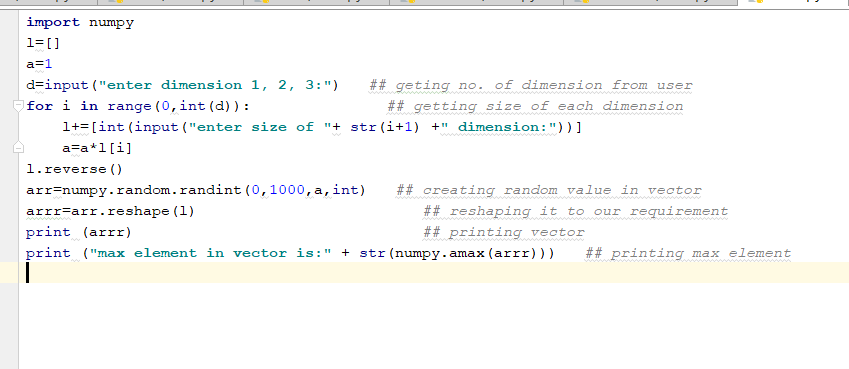
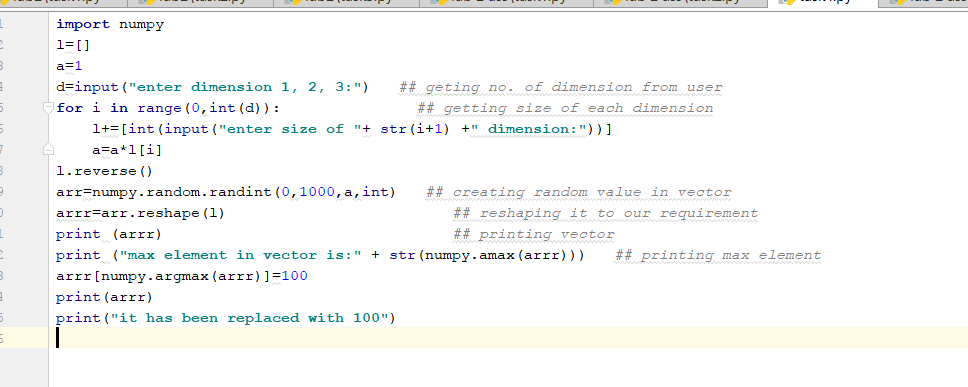
lab 2

diff --git a/lab 2/Scource/task4.py b/lab 2/Scource/task4.py
@@ -10,4 +10,6 @@ arr=numpy.random.randint(0,1000,a,int)   ## creating random value in vector
 arrr=arr.reshape(l)                         ## reshaping it to our requirement
 print (arrr)                                ## printing vector
 print ("max element in vector is:" + str(numpy.amax(arrr)))   ## printing max element
+arrr[numpy.argmax(arrr)]=100
+print(arrr)
 print("it has been replaced with 100")
